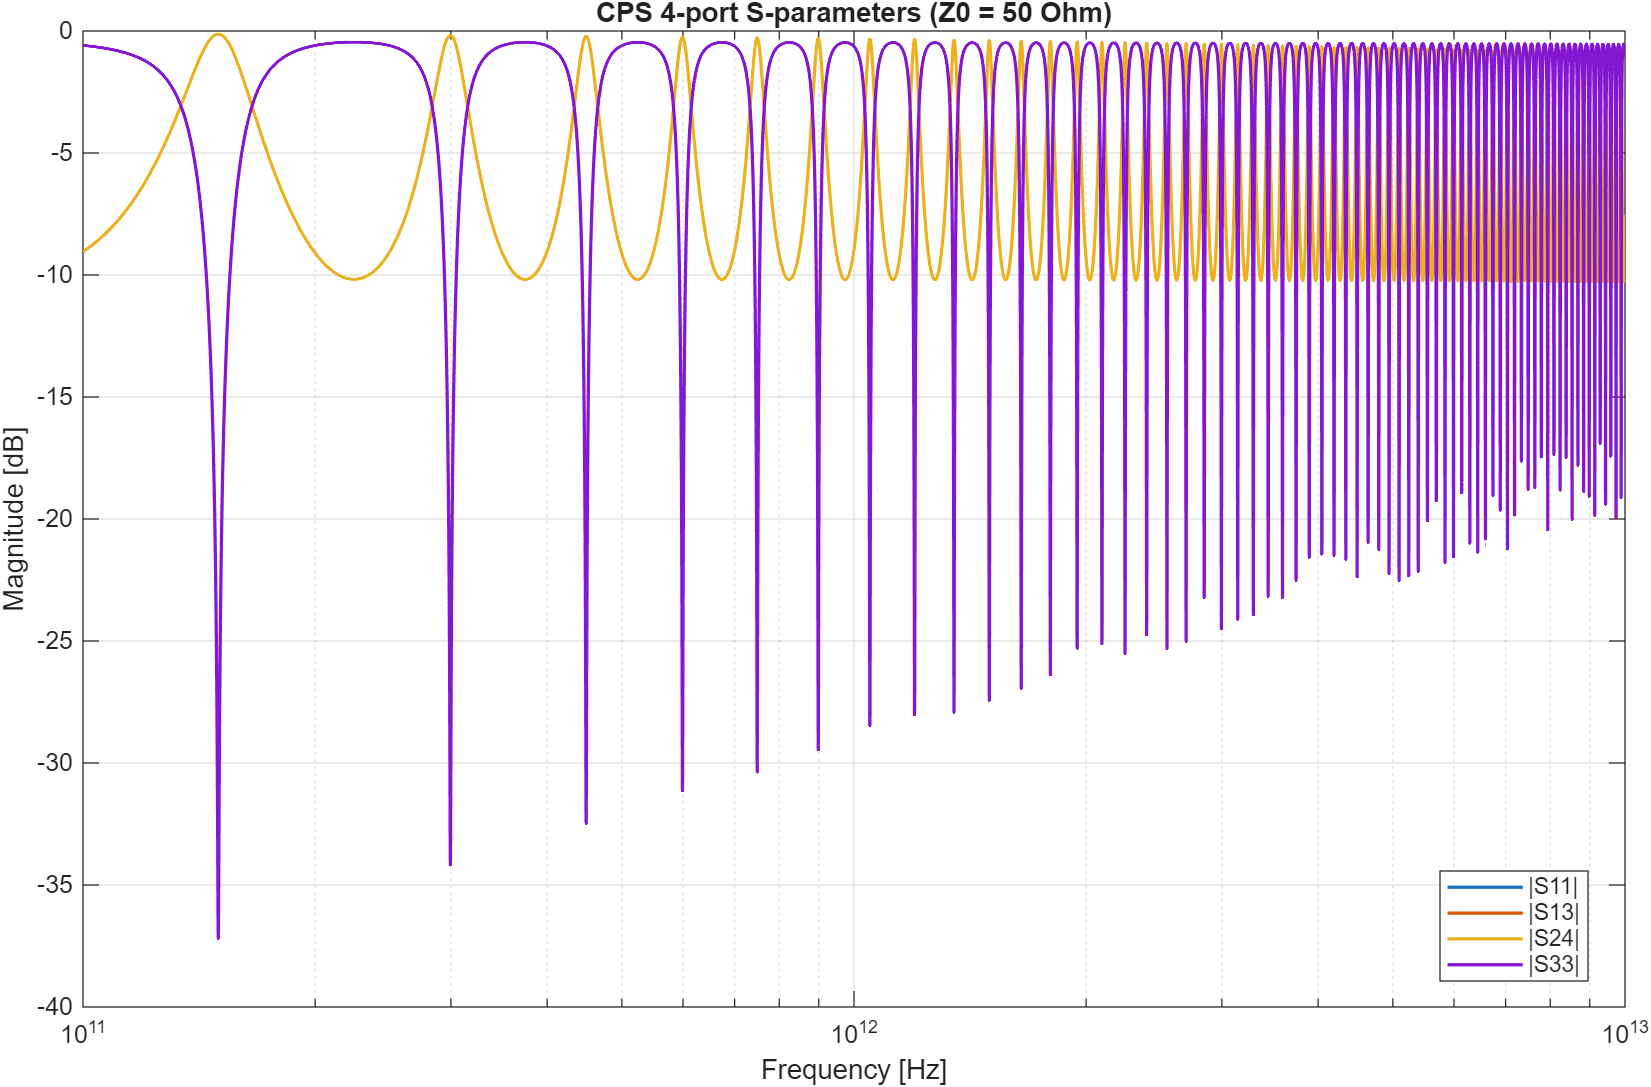
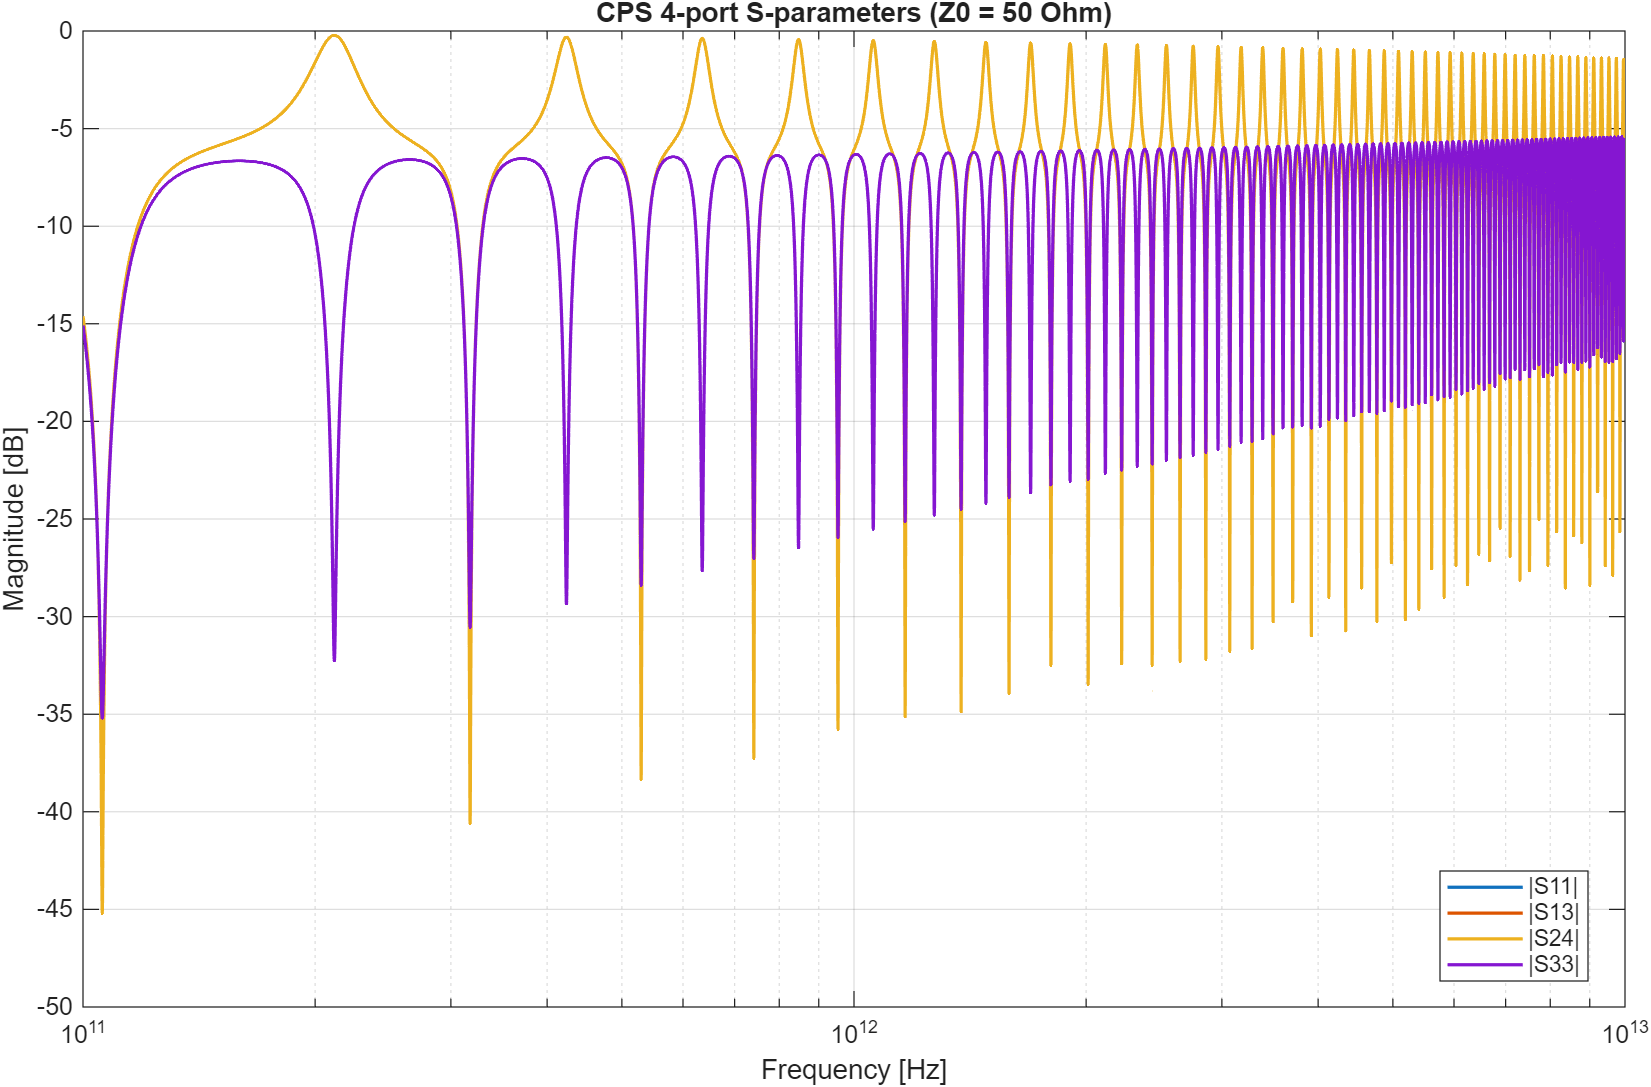
Model coupled 4-port RLGC export

diff --git a/cps_export_s4p_txlineRLCGLine.m b/cps_export_s4p_txlineRLCGLine.m
@@ -1,19 +1,23 @@
 function out = cps_export_s4p_txlineRLCGLine(filename, fmin, fmax, Nfreq, lineLength, Cpul, Lpul, Rpul)
-% CPS_EXPORT_S4P_TXLINERLCGLINE Export 4-port S-parameters to Touchstone.
-% Uses txlineRLCGLine for each strip line (2-port each), then assembles a
-% 4-port network with port mapping (1<->3) and (2<->4).
+% CPS_EXPORT_S4P_TXLINERLCGLINE Export coupled 4-port S-parameters.
+% Computes the 4-port S matrix of a coupled 2-conductor line from full
+% per-unit-length RLGC matrices (2x2), then writes standard Touchstone s4p.
 %
 % Inputs (SI):
 %   filename    output Touchstone file (*.s4p)
 %   fmin,fmax   frequency limits [Hz]
 %   Nfreq       number of frequency points
 %   lineLength  physical line length [m]
-%   Cpul        constant capacitance per unit length [F/m]
-%   Lpul        constant inductance per unit length [H/m]
-%   Rpul        per-unit-length resistance:
-%               - scalar
-%               - vector [1xNfreq] or [Nfreqx1]
-%               - matrix [2x2xNfreq] (diagonal used as line 1/2 losses)
+%   Cpul        constant C matrix:
+%               - scalar: converted to coupled form C*[1 -1; -1 1]
+%               - 2x2 matrix: used directly
+%   Lpul        constant L matrix:
+%               - scalar: converted to coupled form (L/2)*[1 -1; -1 1]
+%               - 2x2 matrix: used directly
+%   Rpul        frequency-dependent R matrix:
+%               - scalar: R*I
+%               - vector [1xNfreq] or [Nfreqx1]: R(f)*I
+%               - matrix [2x2xNfreq]: used directly
 %
 % Fixed model choices requested:
 %   - L and C constant with frequency
@@ -29,44 +33,35 @@ function out = cps_export_s4p_txlineRLCGLine(filename, fmin, fmax, Nfreq, lineLe
     validateattributes(Lpul,       {'numeric'}, {'real','positive','scalar'}, mfilename, 'Lpul', 7);
 
     freq = logspace(log10(fmin), log10(fmax), Nfreq);
-    [R1, R2] = parseRpul(Rpul, Nfreq);
-    G = zeros(1, Nfreq);
-
-    tx1 = txlineRLCGLine( ...
-        Frequency=freq, ...
-        R=R1, ...
-        L=Lpul, ...
-        C=Cpul, ...
-        G=G, ...
-        LineLength=lineLength);
-
-    tx2 = txlineRLCGLine( ...
-        Frequency=freq, ...
-        R=R2, ...
-        L=Lpul, ...
-        C=Cpul, ...
-        G=G, ...
-        LineLength=lineLength);
-
-    s1 = sparameters(tx1, freq, 50);
-    s2 = sparameters(tx2, freq, 50);
+    Cmat = parseC(Cpul);
+    Lmat = parseL(Lpul);
+    Rmats = parseR(Rpul, Nfreq);
+    Gmat = zeros(2, 2);
 
     S4 = zeros(4, 4, Nfreq);
+    Z0 = 50;
     for k = 1:Nfreq
-        s1k = s1.Parameters(:, :, k);
-        s2k = s2.Parameters(:, :, k);
+        w = 2 * pi * freq(k);
+        Zpul = Rmats(:, :, k) + 1j * w * Lmat;
+        Ypul = Gmat + 1j * w * Cmat;
 
-        % Line 1: ports 1 (near) and 3 (far)
-        S4(1, 1, k) = s1k(1, 1);
-        S4(1, 3, k) = s1k(1, 2);
-        S4(3, 1, k) = s1k(2, 1);
-        S4(3, 3, k) = s1k(2, 2);
+        M = [zeros(2,2), Zpul; Ypul, zeros(2,2)];
+        T = expm(M * lineLength);
+        A = T(1:2, 1:2);
+        B = T(1:2, 3:4);
+        C = T(3:4, 1:2);
+        D = T(3:4, 3:4);
 
-        % Line 2: ports 2 (near) and 4 (far)
-        S4(2, 2, k) = s2k(1, 1);
-        S4(2, 4, k) = s2k(1, 2);
-        S4(4, 2, k) = s2k(2, 1);
-        S4(4, 4, k) = s2k(2, 2);
+        Binv = inv(B);
+        Y11 = D * Binv;
+        Y12 = C - D * Binv * A;
+        Y21 = -Binv;
+        Y22 = Binv * A;
+        Y4 = [Y11, Y12; Y21, Y22];
+
+        Zref = Z0 * eye(4);
+        Gref = sqrtm(Zref) * Y4 * sqrtm(Zref);
+        S4(:, :, k) = (eye(4) - Gref) / (eye(4) + Gref);
     end
 
     rfwrite(S4, freq, filename, ...
@@ -79,36 +74,58 @@ function out = cps_export_s4p_txlineRLCGLine(filename, fmin, fmax, Nfreq, lineLe
     out = struct( ...
         'filename', char(filename), ...
         'freq_Hz', freq, ...
-        'R1_Ohm_per_m', R1, ...
-        'R2_Ohm_per_m', R2, ...
+        'Rpul_Ohm_per_m', Rmats, ...
+        'Lpul_H_per_m', Lmat, ...
+        'Cpul_F_per_m', Cmat, ...
         'S4', S4);
 end
 
-function [R1, R2] = parseRpul(Rpul, Nfreq)
+function Cmat = parseC(Cpul)
+    if isscalar(Cpul)
+        validateattributes(Cpul, {'numeric'}, {'real','positive'}, mfilename, 'Cpul');
+        Cmat = Cpul * [1, -1; -1, 1];
+        return;
+    end
+
+    validateattributes(Cpul, {'numeric'}, {'real','size',[2 2]}, mfilename, 'Cpul');
+    Cmat = Cpul;
+end
+
+function Lmat = parseL(Lpul)
+    if isscalar(Lpul)
+        validateattributes(Lpul, {'numeric'}, {'real','positive'}, mfilename, 'Lpul');
+        Lmat = 0.5 * Lpul * [1, -1; -1, 1];
+        return;
+    end
+
+    validateattributes(Lpul, {'numeric'}, {'real','size',[2 2]}, mfilename, 'Lpul');
+    Lmat = Lpul;
+end
+
+function Rmats = parseR(Rpul, Nfreq)
     if isscalar(Rpul)
         validateattributes(Rpul, {'numeric'}, {'real','nonnegative'}, mfilename, 'Rpul');
-        R1 = Rpul * ones(1, Nfreq);
-        R2 = Rpul * ones(1, Nfreq);
+        Rmats = zeros(2, 2, Nfreq);
+        for k = 1:Nfreq
+            Rmats(:, :, k) = Rpul * eye(2);
+        end
         return;
     end
 
     if isvector(Rpul)
         validateattributes(Rpul, {'numeric'}, {'real','nonnegative','numel',Nfreq}, mfilename, 'Rpul');
-        R1 = reshape(Rpul, 1, []);
-        R2 = R1;
+        Rv = reshape(Rpul, 1, []);
+        Rmats = zeros(2, 2, Nfreq);
+        for k = 1:Nfreq
+            Rmats(:, :, k) = Rv(k) * eye(2);
+        end
         return;
     end
 
     sz = size(Rpul);
     if numel(sz) == 3 && sz(1) == 2 && sz(2) == 2 && sz(3) == Nfreq
         validateattributes(Rpul, {'numeric'}, {'real','nonnegative'}, mfilename, 'Rpul');
-        cross12 = squeeze(Rpul(1,2,:));
-        cross21 = squeeze(Rpul(2,1,:));
-        if any(abs(cross12) > 0) || any(abs(cross21) > 0)
-            error('Rpul off-diagonal terms are non-zero: this routine uses uncoupled txlineRLCGLine branches.');
-        end
-        R1 = reshape(squeeze(Rpul(1,1,:)), 1, []);
-        R2 = reshape(squeeze(Rpul(2,2,:)), 1, []);
+        Rmats = Rpul;
         return;
     end
 

diff --git a/README.md b/README.md
@@ -5,7 +5,7 @@ Questa cartella contiene routine MATLAB per linea CPS su substrato singolo:
 - `cps_single_layer_params.m`: calcolo di capacità per unità di lunghezza `C` e impedenza caratteristica `Z` usando le equazioni (1), (5), (6), (7), (8).
 - `verify_table1.m`: verifica numerica con i valori riportati in **Table 1** dell'articolo.
 - `cps_rpul_matrix_skin.m`: calcolo della matrice `Rpul` (2x2) per skin effect a una data frequenza.
-- `cps_export_s4p_txlineRLCGLine.m`: costruzione/esportazione di parametri `S(4x4)` in Touchstone `.s4p` (Z0=50 Ohm), usando `txlineRLCGLine`.
+- `cps_export_s4p_txlineRLCGLine.m`: costruzione/esportazione di parametri `S(4x4)` in Touchstone `.s4p` (Z0=50 Ohm) con modello accoppiato basato su matrici RLGC complete (2x2).
 
 ## Riferimento bibliografico
 

diff --git a/examples/gaas_gold_cps_20um_gap50um/README.md b/examples/gaas_gold_cps_20um_gap50um/README.md
@@ -58,7 +58,7 @@ Questo script genera:
 
 con:
 
-- `Cpul` e `Lpul` costanti in frequenza
+- `Cpul` e `Lpul` costanti in frequenza (matrici accoppiate 2x2)
 - `Gpul = 0`
 - `Rpul(f)` valutata tra `fmin` e `fmax` in `Nfreq` punti
 - punti di frequenza in `logspace` (distribuiti per decade)